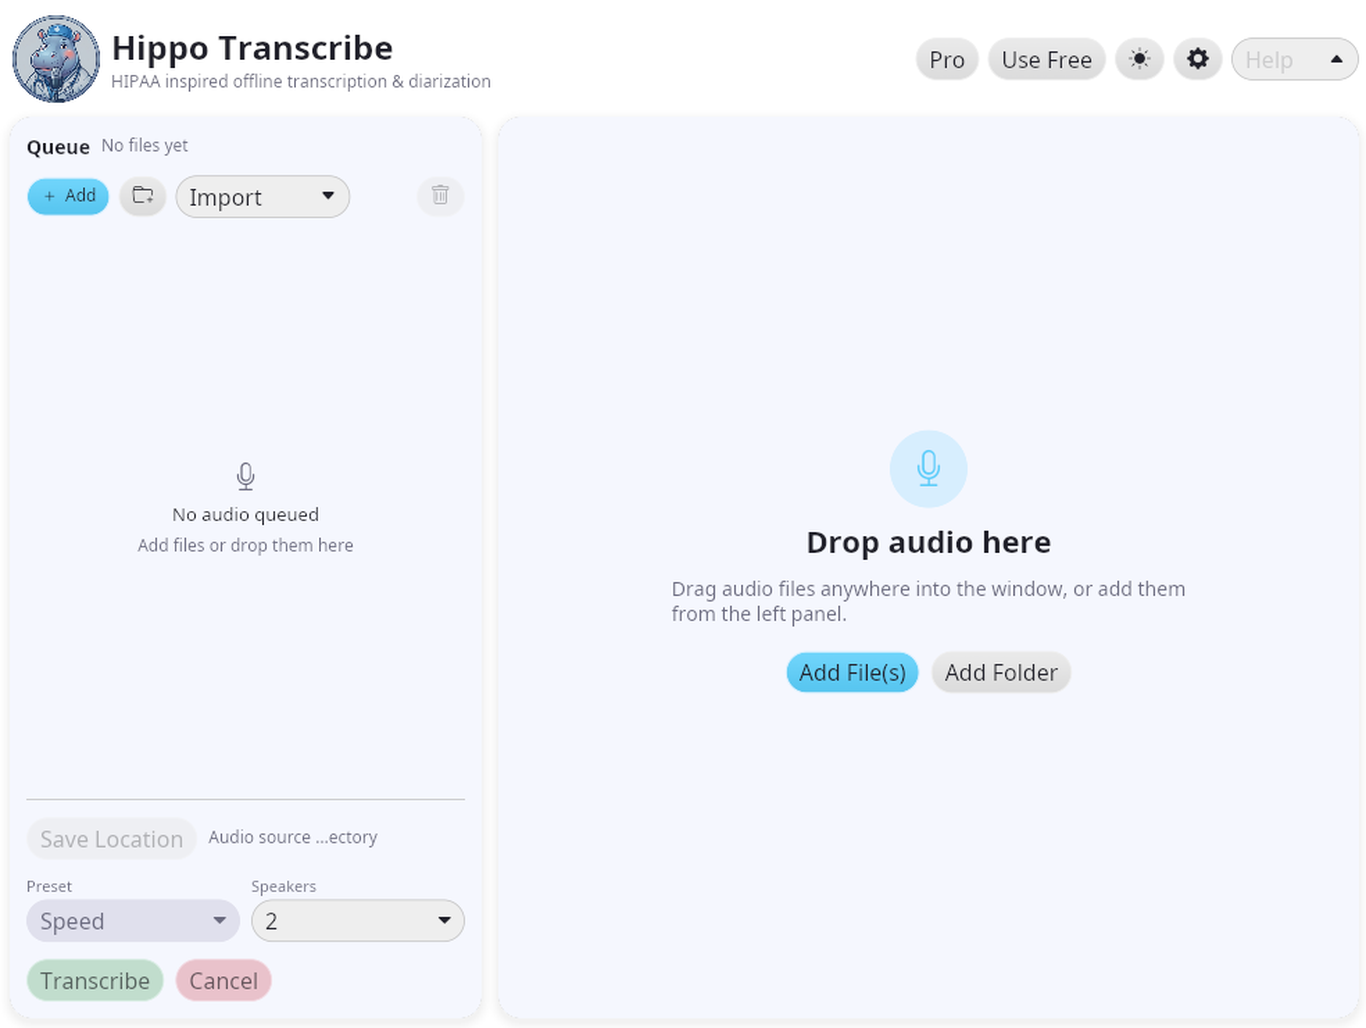
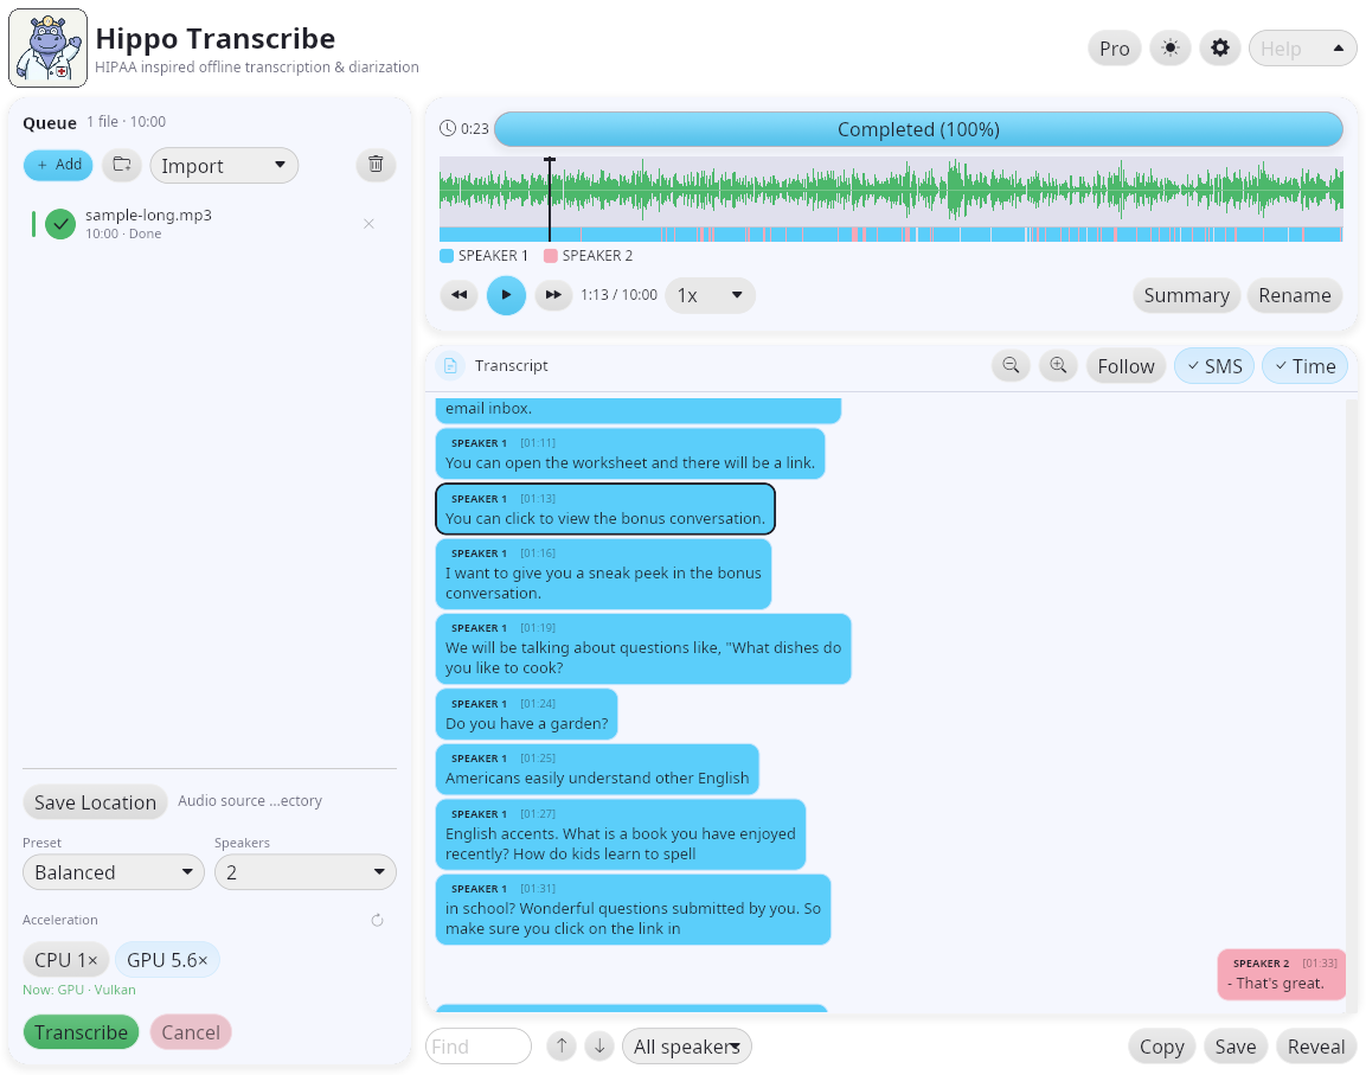
Refresh listing copy and the first screenshot

diff --git a/packaging/store-listing.md b/packaging/store-listing.md
@@ -92,13 +92,13 @@ counts in mind, they are the limits the form enforces.
 
 ## Screenshot shot list
 
-Capture on the Windows VM at 1920x1080, window maximised, no personal file names
-in the queue, one shot in the dark theme. The Store needs at least one image and
-accepts up to ten, each at least 1366x768.
+Capture on the Windows build machine at 1920x1080, window maximised, no personal
+file names in the queue, one shot in the dark theme. The Store needs at least
+one image and accepts up to ten, each at least 1366x768.
 
 The eight files in `packaging/screenshots/` are the listing set, in order:
 
-1. `01-drop.png` — the drop zone with a file added and Start visible.
+1. `01-drop.png` — a finished transcript with the queue, player and speaker bar.
 2. `02-running.png` — a run in progress: stage label, progress, elapsed time.
 3. `03-transcript.png` — a finished multi-speaker transcript with labels and timestamps.
 4. `04-summary.png` — the completion summary.
